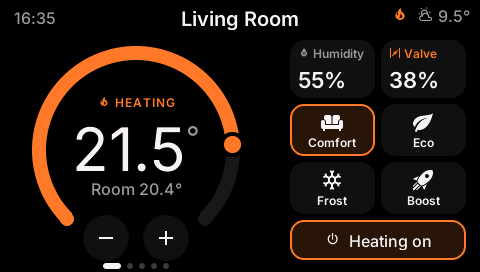
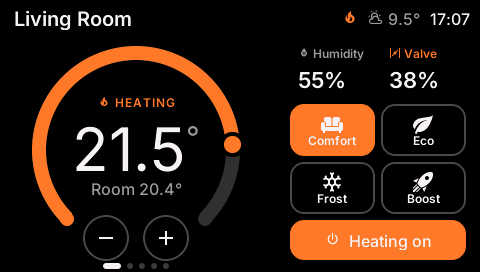
v0.4.0: outline design, compact header, swipes from touch coordinates
Black background with outlined buttons and solid orange for active
states (dim fills step in 16-bit colour on this panel). Room name left,
clock and icons right; no window icon in the header; radiator-off icon for
central mode stopped. Swipe detection from the GT911 coordinates replaces
LVGL gestures, cancels the press, and logs swipes and touches.

diff --git a/README.md b/README.md
@@ -2,7 +2,7 @@
 
 [![Release](https://img.shields.io/github/v/release/Boisti13/esp32-s3-thermostat?include_prereleases)](https://github.com/Boisti13/esp32-s3-thermostat/releases)
 [![License: MIT](https://img.shields.io/badge/license-MIT-blue.svg)](LICENSE)
-![Version](https://img.shields.io/badge/version-0.3.3-orange)
+![Version](https://img.shields.io/badge/version-0.4.0-orange)
 ![ESPHome](https://img.shields.io/badge/ESPHome-2026.9.1-black)
 ![LVGL](https://img.shields.io/badge/LVGL-9-green)
 
@@ -18,7 +18,12 @@ but works with any Home Assistant `climate` entity that heats.
 
 - **One tile per room**: swipe left for the next room, right for the
   previous; the room switches in one go (no drag animation, which an SPI
-  panel can't draw smoothly). Dots at the bottom show where you are. The home room comes first and comes back when the screen wakes.
+  panel can't draw smoothly), and a swipe never presses the button it
+  started on. Dots at the bottom show where you are.
+- **Made for this panel**: black background, outlined buttons, solid orange
+  for what's active. The panel brightens and tints dark colours, and in
+  16-bit colour dim filled shapes get stair-stepped edges; bright edges on
+  black stay smooth. The home room comes first and comes back when the screen wakes.
 - **Big dial**: drag the knob or tap the ring, or use − / + (hold to repeat),
   in the entity's own steps of 0.5 °C. Sent to Home Assistant when you let
   go, so the dial never fights you.
@@ -27,9 +32,10 @@ but works with any Home Assistant `climate` entity that heats.
   *Window open*.
 - **Presets** Comfort, Eco, Frost, Boost; the active one is highlighted.
 - **Room temperature, humidity and valve opening** for each room.
-- **Status bar**: clock, outdoor temperature, a flame while the main heating
-  supply is on, a warning when the central mode is *Stopped* or Home
-  Assistant isn't connected.
+- **Header**: room name on the left; on the right the clock, outdoor
+  temperature, a flame while the main heating supply is on, and warning
+  icons when the central mode is *Stopped* or Home Assistant isn't
+  connected.
 - **Runs on a battery**: dims after 15 s, deep-sleeps after 40 s with the
   backlight held off. A touch or the BOOT button wakes it, and it shows the
   last known values at once (kept in RTC memory) while it reconnects. A

diff --git a/CHANGELOG.md b/CHANGELOG.md
@@ -1,5 +1,22 @@
 # Changelog
 
+## v0.4.0 — 2026-10-16
+
+### Changed
+
+- New look for this panel: outlined buttons on black, solid orange for the
+  active preset and *Heating on*, humidity and valve without tiles. Dim
+  filled shapes had stair-stepped corners in 16-bit colour.
+- Header: room name on the left, clock and status icons on the right (they
+  overlapped). The window icon next to the name is gone; the dial still
+  says *Window open*. *Central mode stopped* is a radiator-off icon.
+
+### Fixed
+
+- Swiping worked in one direction only: rooms are now switched from the
+  touch coordinates (50 px sideways), and a swipe no longer presses the
+  button it started on. Swipes and touches are logged.
+
 ## v0.3.3 — 2026-10-16
 
 ### Changed
